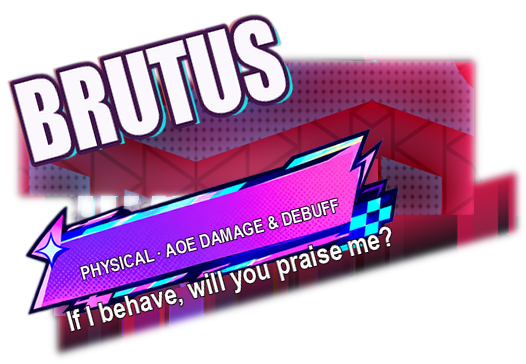
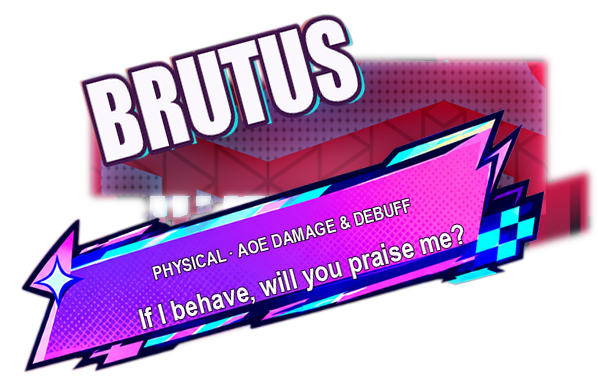
feat(多语言): tagbg 包裹模式——条芯拉高同时包住标签行与台词行
- 缩放取「宽度需求 vs 厚度需求」较大者：条芯半厚 ≥64px（tagbg_wrap_half），
  按各贴图原生厚度 283~347px 反推，按宽度统一缩会让最扁的 tag1 包不住台词
- 带心下移 dy=+14：台词行（条中心下方 47px）落进条芯，标签行留上半段
- 台词字色跟条芯走（TAGBG_STYLE），不再按底图亮度自适应——04 换深红条芯后深棕字会消失
- QUOTE_LIFT=2：台词行整体上移 2px（用户微调）
- verify 面积防呆 25%→30%（包裹模式实测 17~27%）；9/9 PASS，锚点表/字节码已重生成

diff --git a/scripts/image/loading_plate_overlay.py b/scripts/image/loading_plate_overlay.py
@@ -126,6 +126,7 @@ NAME_BLEED = 17       # 大字擦除外扩：白描边 ≈8px + 青/品红错位
 NAME_HEADROOM = 92    # 名字区上沿到 name_box 顶边的余量：斜排大字越宽抬得越高，这条是硬上限
 NAME_LIFT = 14        # 英文大字整体上移，躲开斜条右端（斜条右端比左端高 100+px）
 PLATE_PAD = 6         # 贴片边界相对「几何区 ∪ 墨迹」再外扩的像素，别让字贴着裁切线
+QUOTE_LIFT = 2        # 台词行整体上移的像素（包裹模式下离条芯下缘的微调）
 
 # 实测版面（cn2-X1_loading_04_zh，684×2048）。红条是平行四边形：
 #   上边线 y = top_y_at_x_left + slope*(x - x_left)，高恒为 bar_h。
@@ -652,25 +653,34 @@ def tagbg_geom(im: Image.Image) -> dict:
     cols = np.unique(xs)
     mid = [(c, (ys[xs == c].min() + ys[xs == c].max()) / 2) for c in cols[::8]]
     k, _ = np.polyfit(np.array([p[0] for p in mid]), np.array([p[1] for p in mid]), 1)
+    ext = np.array([ys[xs == c].max() - ys[xs == c].min() for c in cols[::5]])
     return {"cx": float(cent[mx][0]), "cy": float(cent[mx][1]),
-            "angle": float(np.degrees(np.arctan(-k)))}
+            "angle": float(np.degrees(np.arctan(-k))),
+            "T": float(np.median(ext))}   # 条芯竖向厚度（含倾角的列高中位数）
 
 
 def place_tagbg(layout: dict, tilt: float, W: int, H: int):
     """缩放/旋转/摆位 tagbg，返回 (图, 左上角落点, 覆盖四边形)。
 
-    - 宽度 = 条长 × tagbg_scale（默认 1.30）：左端箭头尾、右端故障碎块都在条长
-      之外，只按条长缩会让装饰挤进条芯、字没地方落。
+    - 🔴 缩放取「宽度需求」和「厚度需求」的较大者：
+      宽度 = 条长 × tagbg_scale（默认 1.30），保证左端箭头尾、右端故障碎块在条长之外；
+      厚度 = 条芯半厚 ≥ tagbg_wrap_half（默认 64px）——台词行中心在条带中心线下方
+      47px、半高 18px，条芯必须同时包住标签行和台词行（用户要求 tagbg「包裹住
+      下面的文字」），不够厚就横向等比放大。四张图原生厚度差很多（283~347px），
+      按宽度统一缩会让最扁的 tag1 包不住台词。
     - 角度 = 条带倾角 − 贴图自带倾角：四张贴图倾角 8.5°~13.6° 各不同，不补这个
       差值，条芯和字会差出 2°~6.5°。
     - 摆位 = 主成分质心对准条带中心线中点（tagbg_dx/dy 可逐张微调）。
-      dy 默认 -8：贴图下缘的故障刺会扎进台词带（刺尖比条芯低 40px+），整体上移
-      让刺尖只轻擦台词上沿；上缘离大字还有 30px+ 余量，不会顶到名字。
+      dy 默认 +14：带心下移让台词行落进条芯、标签行留在上半段；再往下会顶到
+      台词带下缘外，再往上条芯上沿会吃到大字底部。
     - 覆盖四边形交给 plate_box 并入贴片 bbox，否则贴图超出贴片被裁。
     """
     im = load_tagbg(layout["tagbg"])
+    g0 = tagbg_geom(im)
     bar_len = layout["x_right"] - layout["x_left"]
-    scale = bar_len * float(layout.get("tagbg_scale", 1.30)) / im.width
+    scale_w = bar_len * float(layout.get("tagbg_scale", 1.30)) / im.width
+    scale_t = 2 * float(layout.get("tagbg_wrap_half", 64)) / max(g0["T"], 1.0)
+    scale = max(scale_w, scale_t)
     im = im.resize((max(1, int(im.width * scale)), max(1, int(im.height * scale))),
                    Image.LANCZOS)
     delta = tilt - tagbg_geom(im)["angle"]
@@ -680,7 +690,7 @@ def place_tagbg(layout: dict, tilt: float, W: int, H: int):
     bar_cx = (layout["x_left"] + layout["x_right"]) / 2
     bar_cy = top_y(layout, bar_cx) + layout["bar_h"] / 2
     px = int(round(bar_cx - g["cx"] + float(layout.get("tagbg_dx", 0))))
-    py = int(round(bar_cy - g["cy"] + float(layout.get("tagbg_dy", -8))))
+    py = int(round(bar_cy - g["cy"] + float(layout.get("tagbg_dy", 14))))
     quad = np.array([[px, py], [px + im.width, py],
                      [px + im.width, py + im.height], [px, py + im.height]],
                     np.float32)
@@ -759,9 +769,10 @@ def build_lines(asset: str, lang: str, layout: dict, W: int, H: int,
         # 描边只给 1px：描边过粗会把 20px 的字芯整个包住、看起来变成白字。
         lay, bb, ink_c = line_layer(quote, font, fill=tuple(q_fill) + (255,), stroke=1,
                                     stroke_fill=tuple(q_stroke) + (255,))
-        # 左中点对齐（见 paste_rotated 注释）：台词左端钉在带子左端的中心线上
+        # 左中点对齐（见 paste_rotated 注释）：台词左端钉在带子左端的中心线上。
+        # QUOTE_LIFT=2：包裹模式下台词贴着条芯下缘，用户微调整体上移 2px。
         items.append((lay, (bb[0], ink_c[1]), tilt,
-                      (qx_left, bot_y(layout, qx_left) + layout["quote_h"] / 2)))
+                      (qx_left, bot_y(layout, qx_left) + layout["quote_h"] / 2 - QUOTE_LIFT)))
     return items
 
 
@@ -896,6 +907,11 @@ def render(asset: str, lang: str, layout: dict) -> dict:
         q_fill, q_stroke = (44, 26, 30), (250, 246, 240)      # 亮底：深字浅描边
     else:
         q_fill, q_stroke = (252, 250, 246), (24, 14, 20)      # 暗底：白字深描边
+    if use_tagbg:
+        # 台词行落进 tagbg 条芯里（包裹模式）：字色跟条芯走，不再按底图亮度自适应——
+        # 04 这类亮底图换了 tag3 深红条芯后，深棕字会直接消失
+        st = TAGBG_STYLE[layout["tagbg"]]
+        q_fill, q_stroke = st["fill"], st["stroke"]
 
     # --- 3) 排版：先在**底图坐标**里算三条线的落点，拿到各自的墨迹范围 ----- #
     tilt = float(np.degrees(np.arctan(-layout["slope"])))
@@ -1190,9 +1206,9 @@ def verify(asset: str, lang: str) -> int:
     checks = [
         ("底图尺寸与登记一致", (W, H) == (sw, sh)),
         ("贴片宽高与 bbox 一致", plate.size == (bw, bh)),
-        # 贴片现在由「几何 ∪ 墨迹」反推，斜排大字会把上沿撑高（05/07 顶到 y=0），
-        # 面积上限从 15% 放到 25%：这条只是防呆（别退化成整图覆盖），不是设计约束。
-        ("贴片占底图 < 25% 面积", (bw * bh) / (W * H) < 0.25),
+        # 贴片由「几何 ∪ 墨迹 ∪ tagbg 覆盖」反推：包裹模式（tagbg 同时包住标签行和
+        # 台词行）后实测 17~27%。这条只是防呆（别退化成整图覆盖），不是设计约束。
+        ("贴片占底图 < 30% 面积", (bw * bh) / (W * H) < 0.30),
         ("贴片体积 < 底图 30%", os.path.getsize(pp) < os.path.getsize(src) * 0.30),
         ("anchor 落在底图内", 0 <= geom["anchor_min"][0] < geom["anchor_max"][0] <= 1),
         # 🔴 最重要的一条：三条线的墨迹必须完整落在画板内。>0 说明字被裁了，
